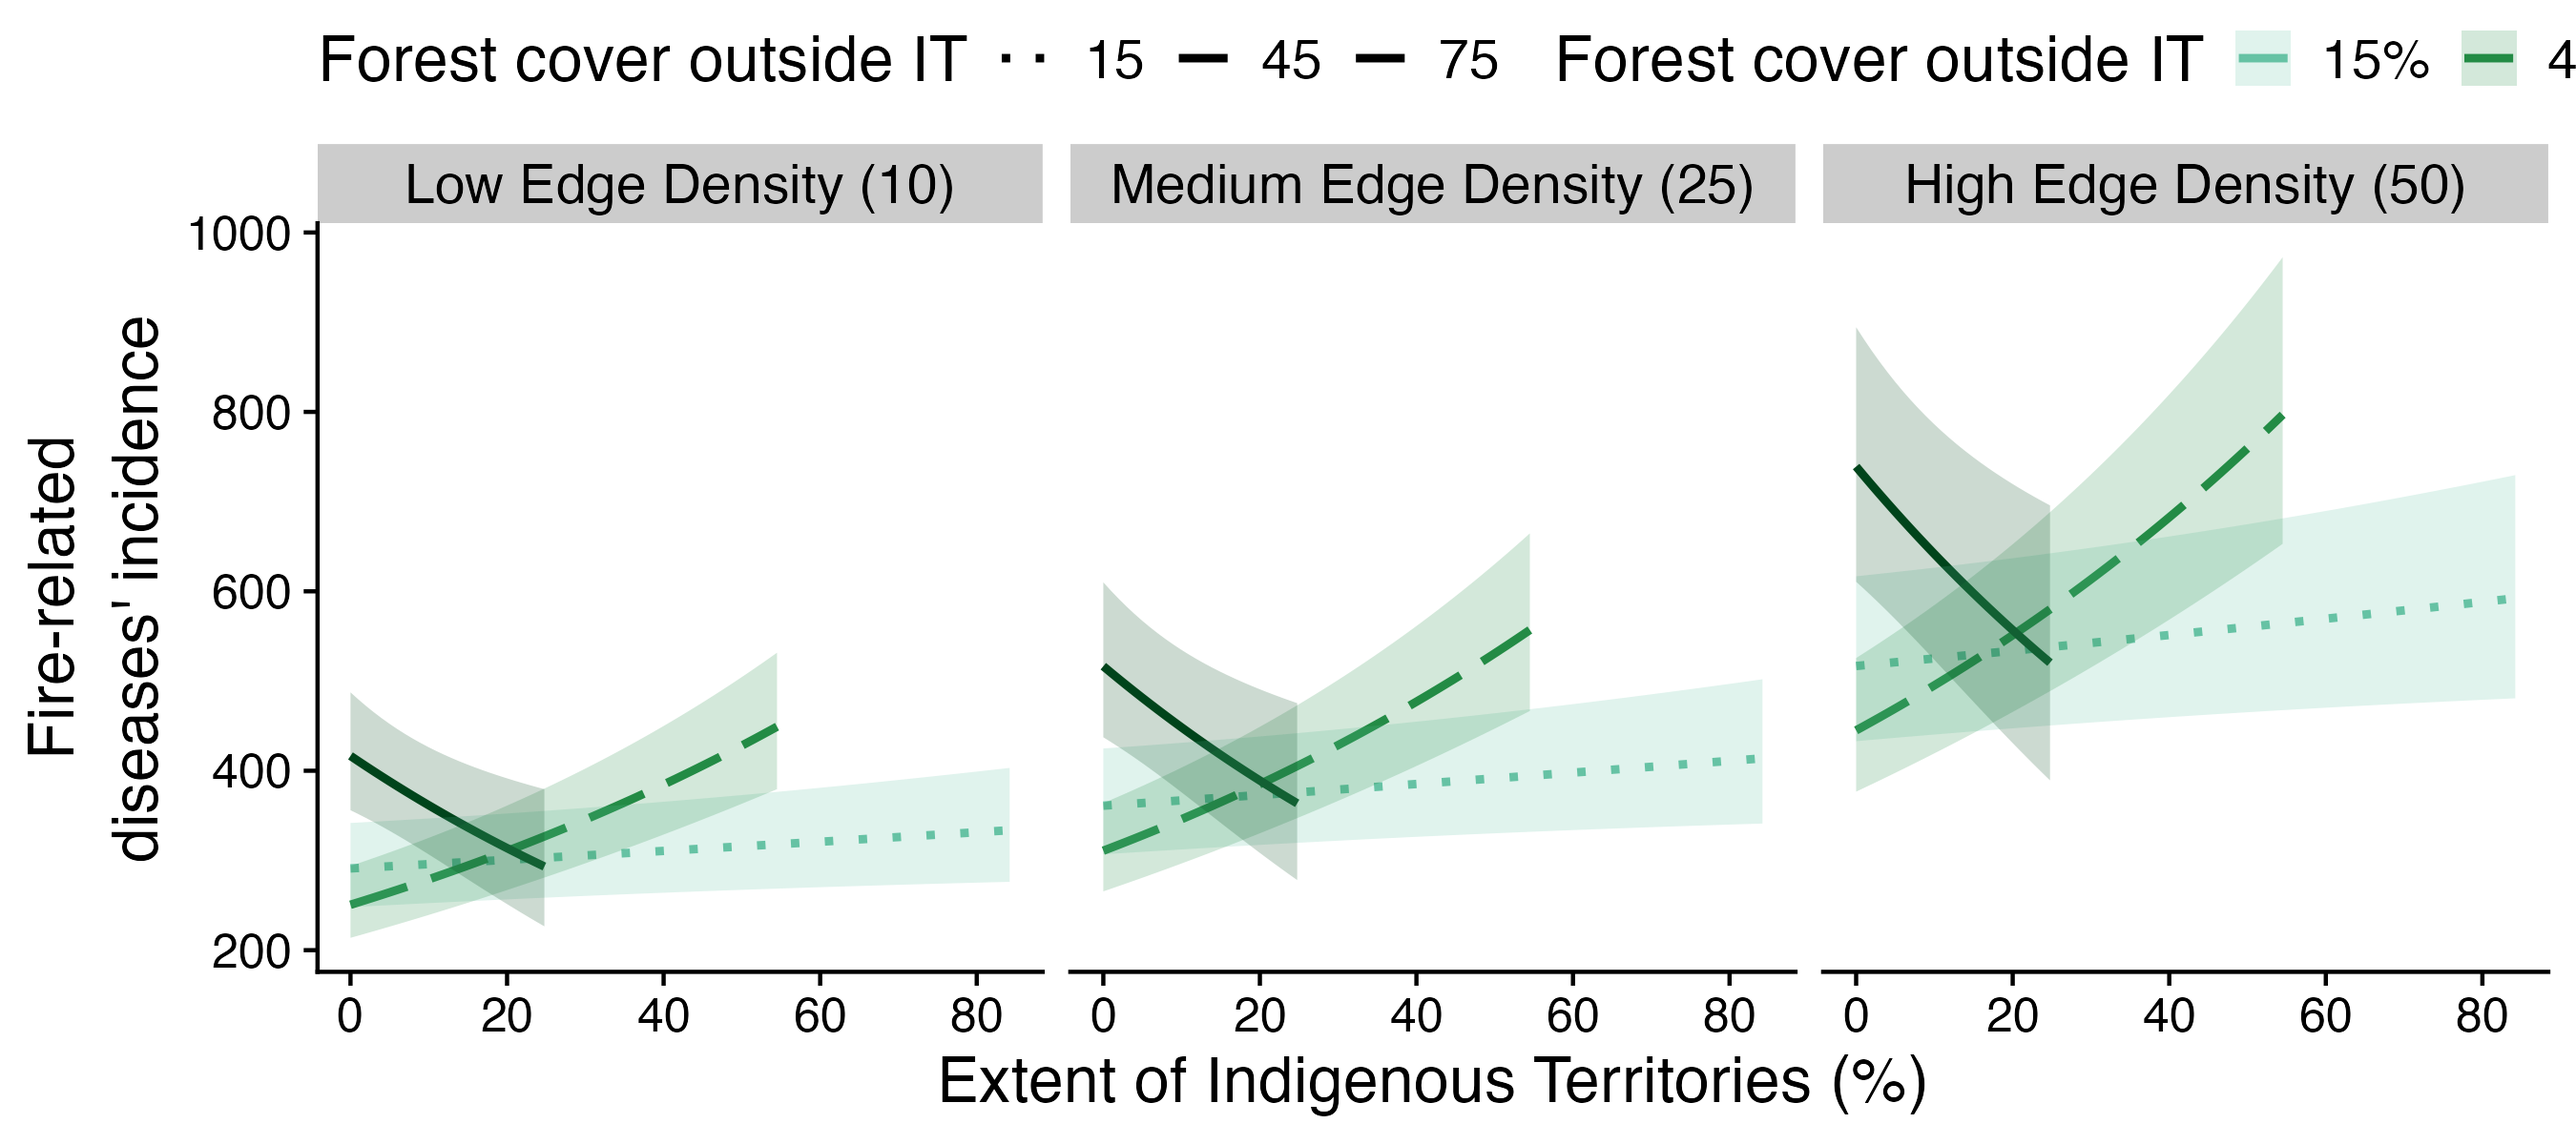
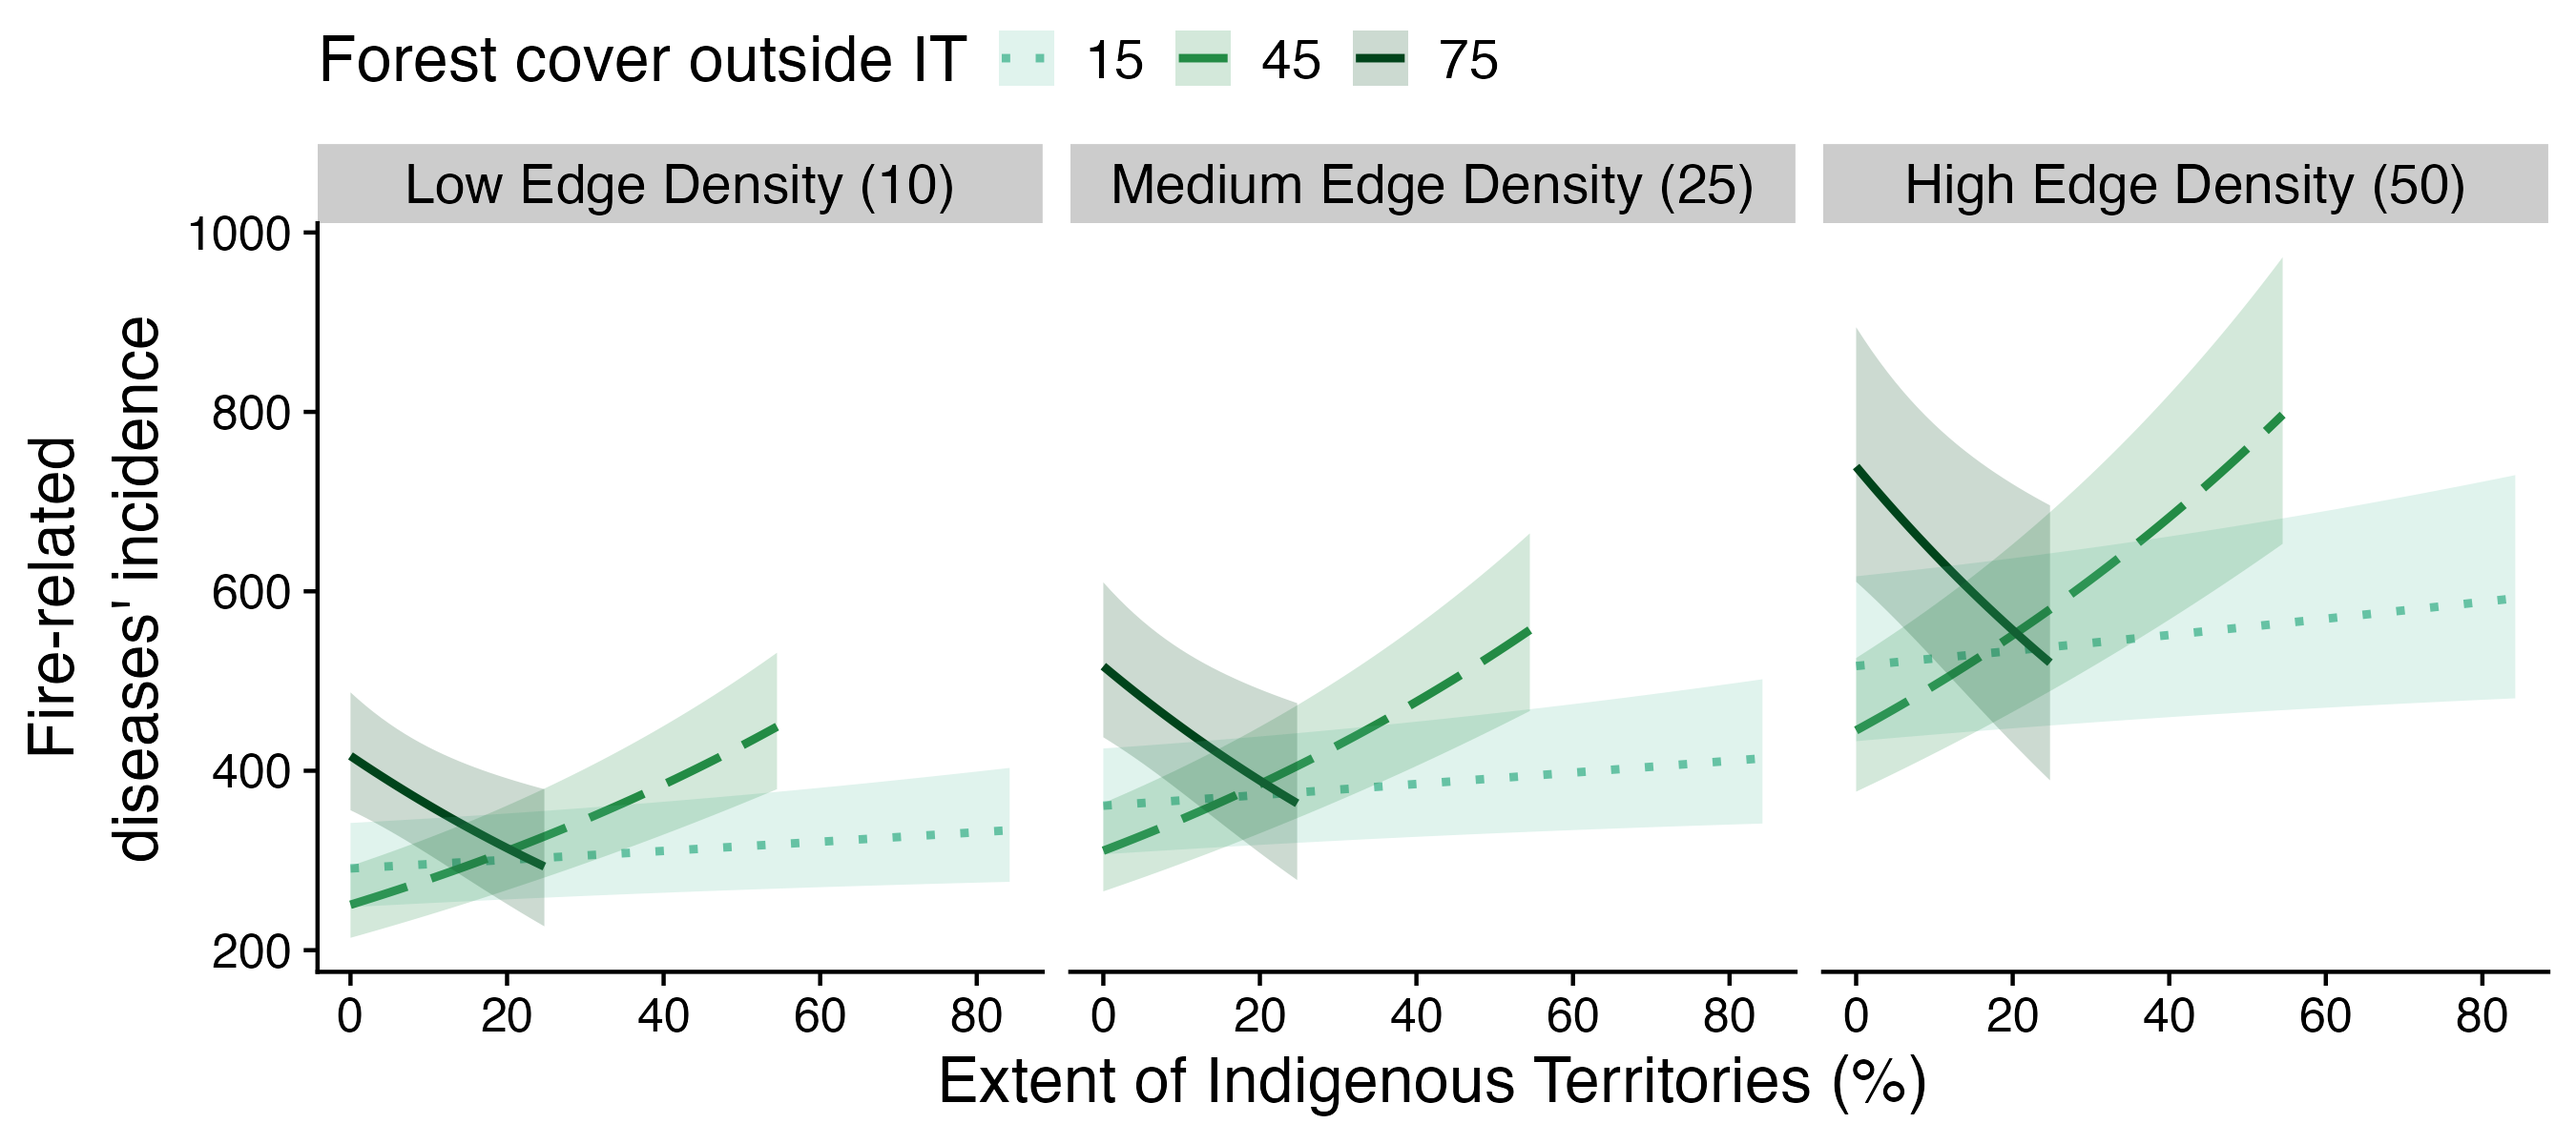
legend box in plot correction, add paper URL

Changed region(s): [[0.5911, 0.0308, 1.0, 0.0925], [0.3733, 0.0308, 0.56, 0.0925]]

diff --git a/README.md b/README.md
@@ -24,6 +24,8 @@ zoonotic diseases. The repository includes comprehensive datasets, R
 scripts, and model outputs, covering the full research workflow from statistical
 analysis to model prediction plots.
 
+Analyses and data is part of the work: nature.com/articles/s43247-025-02620-7
+
 ## **Folder Structure**
 
 The repository is organized as follows:
